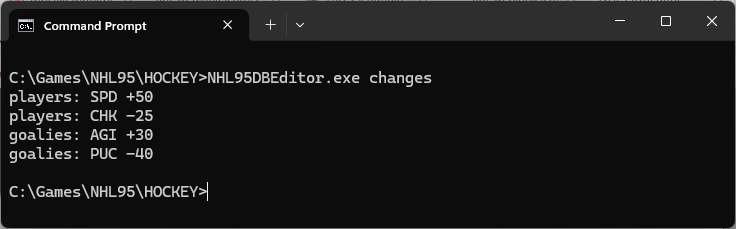
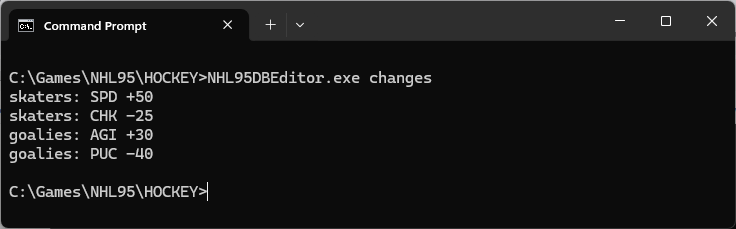
Update players -> skaters

Changed region(s): [[0.0625, 0.9782, 1.0, 1.0], [0.0, 0.3974, 0.0625, 0.5502]]

diff --git a/index.html b/index.html
@@ -31,7 +31,7 @@
         <span class="blc"></span><span class="trc"></span>
         </div>
         <article class="markdown-body">
-          <p>NHL95DBEditor is a console program for editing the database files of EA Sports NHL Hockey 95 for PC. Its main use case is changing the attributes of all players or goalies, e.g. increasing the speed of all players by 25 to increase the game's tempo.</p>
+          <p>NHL95DBEditor is a console program for editing the database files of EA Sports NHL Hockey 95 for PC. Its main use case is changing the attributes of all skaters or goalies, e.g. increasing the speed of all skaters by 25 to increase the game's tempo.</p>
 
 <p>This project is no longer actively developed due to other projects taking precedence.</p>
 
@@ -60,16 +60,16 @@
 <img src="images/screenshot-data-to-file.png" alt="Data to file screenshot"></p>
 
 <h2>
-<a name="changing-attributes-of-all-players-or-goalies" class="anchor" href="#changing-attributes-of-all-players-or-goalies"><span class="octicon octicon-link"></span></a>Changing attributes of all players or goalies</h2>
+<a name="changing-attributes-of-all-skaters-or-goalies" class="anchor" href="#changing-attributes-of-all-skaters-or-goalies"><span class="octicon octicon-link"></span></a>Changing attributes of all skaters or goalies</h2>
 
-<p>You can change attributes of all players or goalies with the <code>playeratt</code> or <code>goalieatt</code> command. Run the command without additional parameters to see more information about its usage.
-<img src="images/screenshot-playeratt-usage.png" alt="Playeratt screenshot"><img src="images/screenshot-goalieatt-usage.png" alt="Goalieatt screenshot"></p>
+<p>You can change attributes of all skaters or goalies with the <code>skateratt</code> or <code>goalieatt</code> command. Run the command without additional parameters to see more information about its usage.
+<img src="images/screenshot-skateratt-usage.png" alt="Playeratt screenshot"><img src="images/screenshot-goalieatt-usage.png" alt="Goalieatt screenshot"></p>
 
 <p>Some examples:</p>
 
 <ul>
-<li>Increase all players' speed by 50 and decrease their checking by 25: <code>playeratt SPD +50 CHK -25</code>
-<img src="images/screenshot-playeratt-example.png" alt="Playeratt example screenshot">
+<li>Increase all skaters' speed by 50 and decrease their checking by 25: <code>skateratt SPD +50 CHK -25</code>
+<img src="images/screenshot-skateratt-example.png" alt="Playeratt example screenshot">
 </li>
 <li>Increase all goalies' agility by 30 and decrease their puck control by 40: <code>goalieatt AGI +30 PUC -40</code>
 <img src="images/screenshot-goalieatt-example.png" alt="Goalieatt example screenshot">
@@ -77,7 +77,7 @@
 </ul><h2>
 <a name="seeing-what-changes-have-been-made" class="anchor" href="#seeing-what-changes-have-been-made"><span class="octicon octicon-link"></span></a>Seeing what changes have been made</h2>
 
-<p>The program keeps track of the changes it makes in a file named change-log.txt in the directory it is run. The file's content is output after each <code>playeratt</code>/<code>goalieatt</code> command execution. You can also see the changes with the <code>changes</code> command.
+<p>The program keeps track of the changes it makes in a file named change-log.txt in the directory it is run. The file's content is output after each <code>skateratt</code>/<code>goalieatt</code> command execution. You can also see the changes with the <code>changes</code> command.
 <img src="images/screenshot-changes.png" alt="Changes screenshot"></p>
 
 <h2>